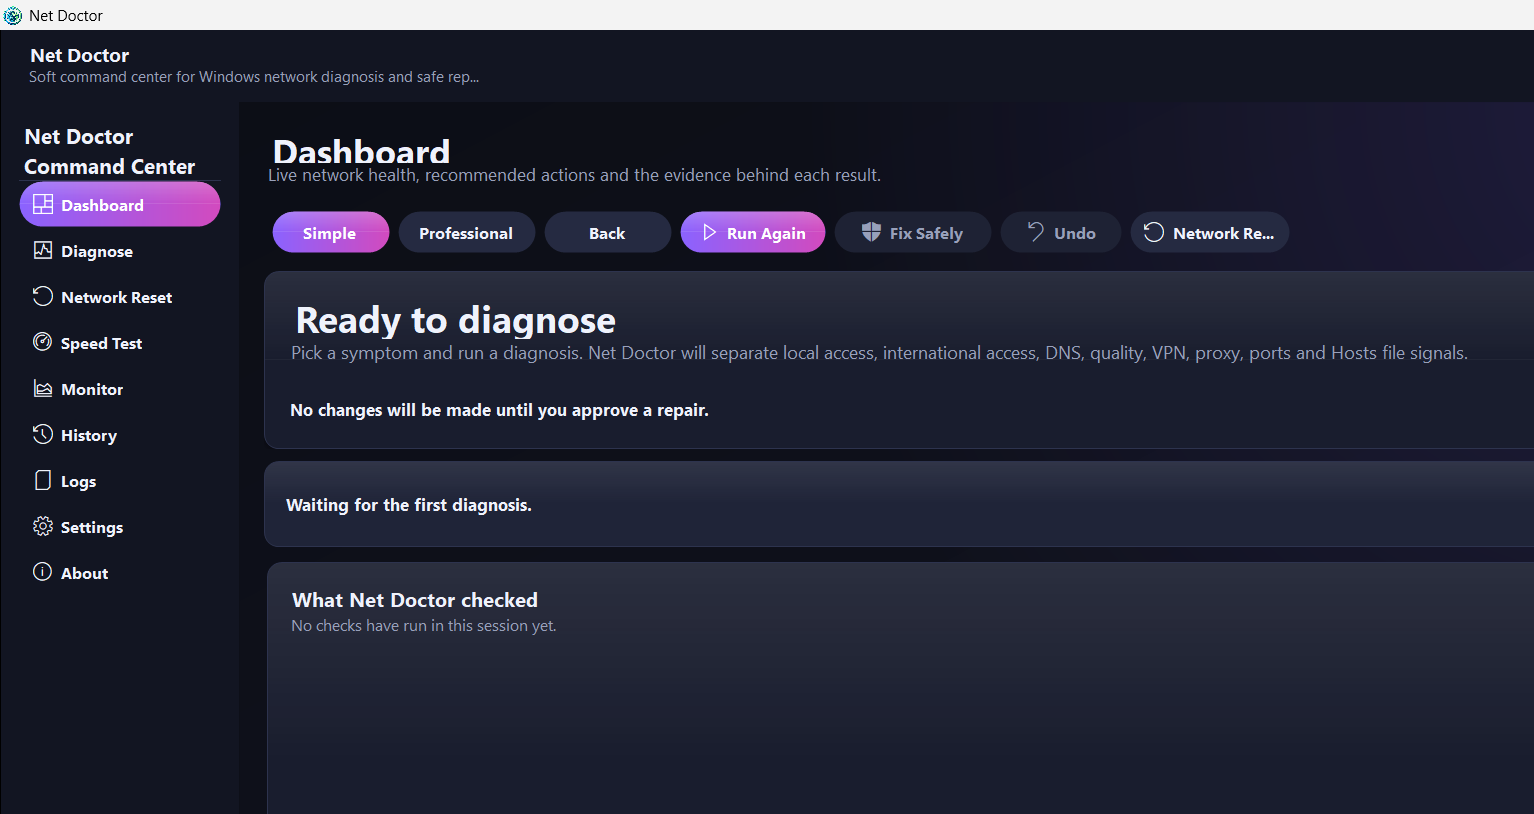
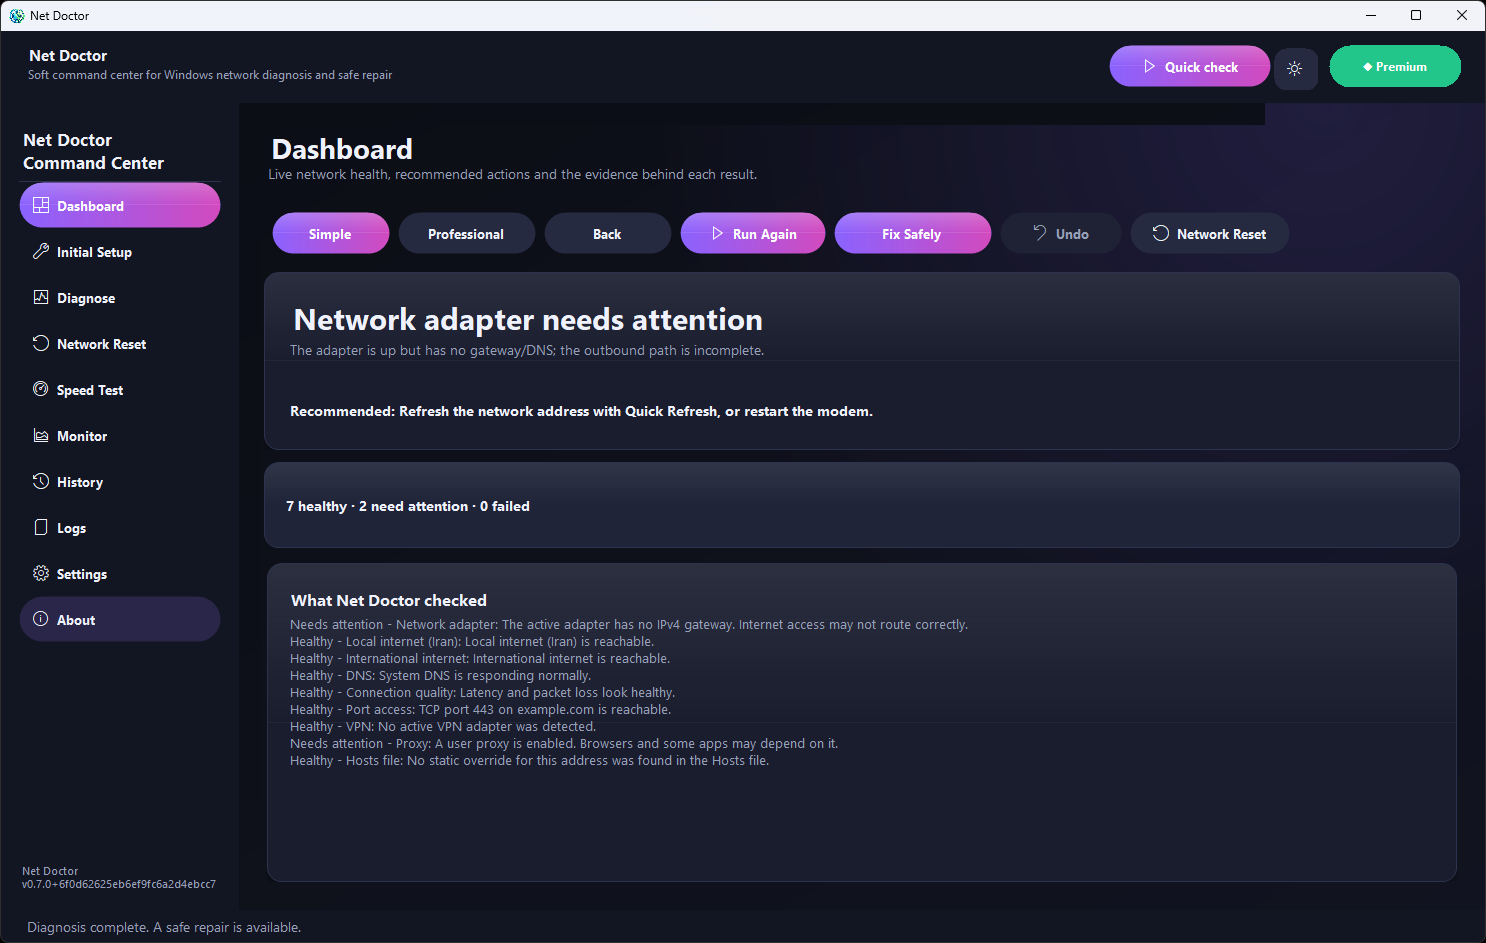
Refresh screenshots for 0.7.0
- Add new in-app screenshots: dashboard with bottleneck analysis and the guided Initial Setup wizard
- Show the two new screenshots side by side in the README (EN + FA)
- Remove the outdated 0.6.x screenshots

diff --git a/README.fa.md b/README.fa.md
@@ -25,12 +25,8 @@
 ## اسکرینشاتها
 
 <p float="right">
-  <img src="assets/screenshots/start.png" width="45%" alt="شروع" />
-  <img src="assets/screenshots/dashboard.png" width="45%" alt="داشبورد" />
-</p>
-<p float="right">
-  <img src="assets/screenshots/start-iran.png" width="45%" alt="شروع (منطقه ایران)" />
-  <img src="assets/screenshots/dashboard-iran.png" width="45%" alt="داشبورد (منطقه ایران)" />
+  <img src="assets/screenshots/dashboard.png" width="49%" alt="داشبورد با آنالیز گلوگاه" />
+  <img src="assets/screenshots/setup.png" width="49%" alt="ویزارد راهاندازی اولیه" />
 </p>
 
 ## دانلود

diff --git a/README.md b/README.md
@@ -23,12 +23,8 @@ Net Doctor is a Windows desktop application that diagnoses common network and in
 ## Screenshots
 
 <p float="left">
-  <img src="assets/screenshots/start.png" width="45%" alt="Start" />
-  <img src="assets/screenshots/dashboard.png" width="45%" alt="Dashboard" />
-</p>
-<p float="left">
-  <img src="assets/screenshots/start-iran.png" width="45%" alt="Start (Iran region)" />
-  <img src="assets/screenshots/dashboard-iran.png" width="45%" alt="Dashboard (Iran region)" />
+  <img src="assets/screenshots/dashboard.png" width="49%" alt="Dashboard with bottleneck analysis" />
+  <img src="assets/screenshots/setup.png" width="49%" alt="Guided Initial Setup wizard" />
 </p>
 
 ## Download